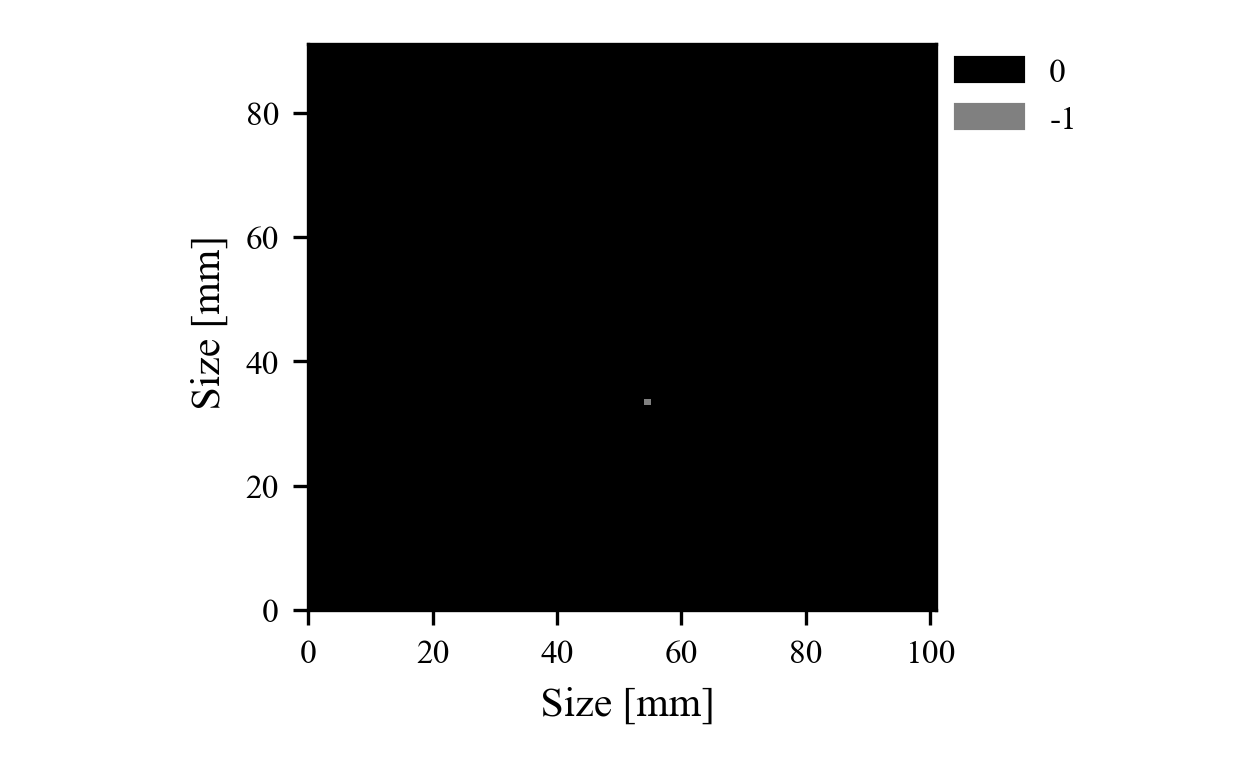
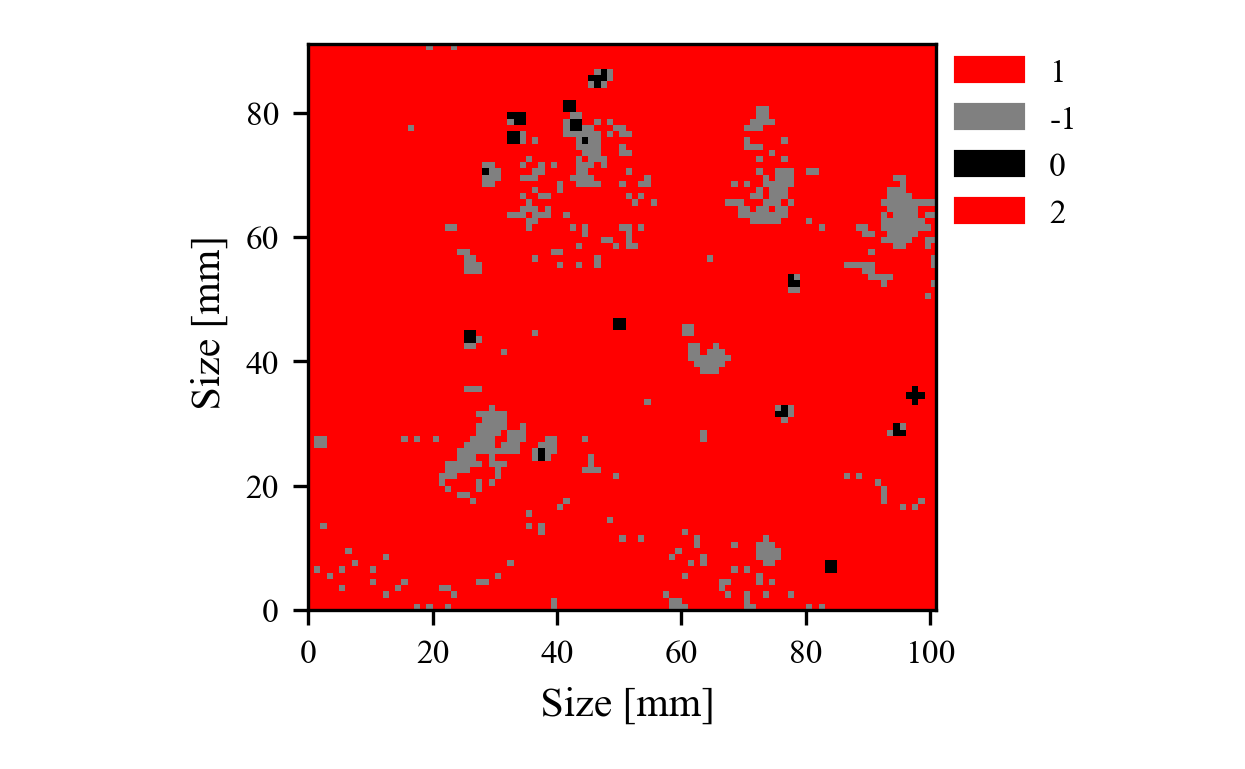
Switch DBSCAN to HDBSCAN in microplastics example, regenerate plots, add hdbscan dependency, and bump to 0.6.3

diff --git a/setup.py b/setup.py
@@ -5,7 +5,7 @@ with open("README.md", "r", encoding="utf-8") as fh:
 
 setuptools.setup(
     name="spectramap",
-    version="0.6.2",
+    version="0.6.3",
     author="Juan David Muñoz-Bolaños",
     author_email="jmunozbolanos@gmail.com",
     description="Hyperspectral package for spectroscopists",
@@ -26,5 +26,5 @@ setuptools.setup(
     package_dir={"": "src"},
     packages=setuptools.find_packages(where="src"),
     python_requires=">=3.7",
-    install_requires=["scikit-learn", "scipy", "numpy", "pandas", "matplotlib", "colorcet", "spc-spectra"],
+    install_requires=["scikit-learn", "scipy", "numpy", "pandas", "matplotlib", "colorcet", "spc-spectra", "hdbscan"],
 )

diff --git a/examples/microplastics_tissue/microplastics.py b/examples/microplastics_tissue/microplastics.py
@@ -11,6 +11,6 @@ path = 'examples/microplastics_tissue/microplastics_tissue'
 micro = sp.hyper_object('MP') #creating the hyper object Wavenumber (cm-1) No. of pixels Wavenumber (cm-1
 micro.read_csv_xz(path) #reading the csv file
 ### processing ###
-micro.dbscan(5, 0.5) # hierarchical density-based clustering
+micro.hdbscan(5, 5) # hierarchical density-based clustering (HDBSCAN)
 colors = micro.show_map(['gray', 'k', 'r'], None, 1) # 2D map of the clusters(Fig.5.6(a))
 micro.show_stack(0,0, colors) # stack of the spectral clusters (Fig. 5.6(b))

diff --git a/docs/examples.md b/docs/examples.md
@@ -73,7 +73,7 @@ abundance.show_profile('auto') # plot profile
 ```
 
 ## 4. Microplastics Tissue
-Demonstrates loading hyperspectral data of microplastics in tissue and applying density-based clustering (DBSCAN).
+Demonstrates loading hyperspectral data of microplastics in tissue and applying hierarchical density-based clustering (HDBSCAN).
 
 ```python
 from spectramap import spmap as sp
@@ -83,7 +83,7 @@ micro = sp.hyper_object('MP')
 micro.read_csv_xz('examples/microplastics_tissue/microplastics_tissue')
 
 # Processing
-micro.dbscan(5, 0.5) # hierarchical density-based clustering
+micro.hdbscan(5, 5) # hierarchical density-based clustering
 colors = micro.show_map(['gray', 'k', 'r'], None, 1) # 2D map of the clusters
 micro.show_stack(0, 0, colors) # stack of the spectral clusters
 ```

diff --git a/README.md b/README.md
@@ -61,7 +61,7 @@ pip install spectramap
 
 ## 📖 Quick Start Guide
 
-### Example 1: Hyperspectral Image (DBSCAN Clustering)
+### Example 1: Hyperspectral Image (HDBSCAN Clustering)
 ```python
 from spectramap import spmap as sp
 
@@ -70,7 +70,7 @@ micro = sp.hyper_object('Microplastics', data_type='hyper_image')
 micro.read_csv_xz('examples/microplastics_tissue/microplastics_tissue')
 
 # Apply Hierarchical Density-Based Clustering
-micro.dbscan(min_samples=5, epsilon=0.5)
+micro.hdbscan(min_samples=5, min_cluster=5)
 
 # Render the segmentation map and corresponding spectral stacks
 colors = micro.show_map(['gray', 'k', 'r'], None, 1)
